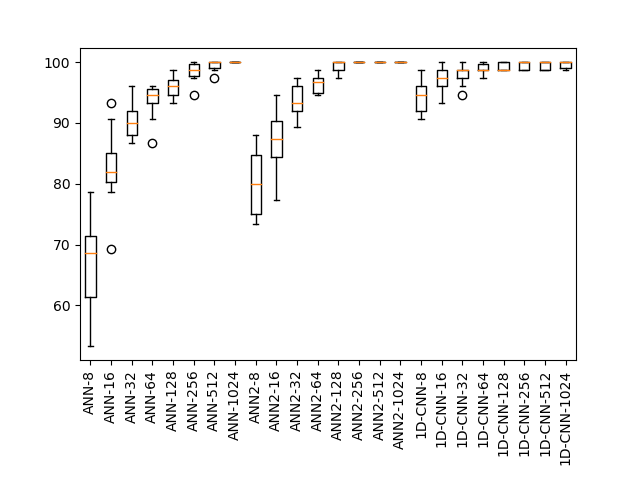
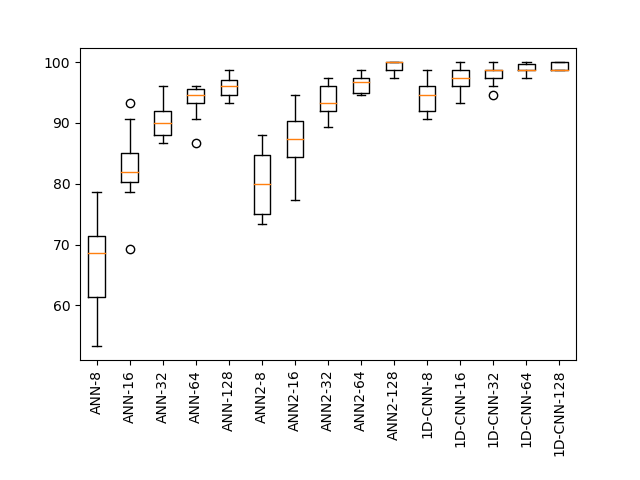
update

Changed region(s): [[0.125, 0.125, 0.9062, 0.9688], [0.375, 0.125, 0.9062, 0.4688]]

diff --git a/scripts/entrenar_modelo.py b/scripts/entrenar_modelo.py
@@ -122,9 +122,26 @@ def run_experiment(trainX, trainy, testX, testy, trainX_2, testX_2, repeats=10):
     # repeat experiment
 
     all_scores = list()
-    tamaño_red=[8,16,32,64,128,256,512,1024]
+    tamaño_red=[8,16,32,64,128]
 
-    all_scores=[[69.33333277702332, 69.33333277702332, 68.00000071525574, 78.66666913032532, 60.00000238418579, 72.00000286102295, 72.00000286102295, 61.33333444595337, 53.33333611488342, 61.33333444595337], [82.66666531562805, 69.33333277702332, 93.33333373069763, 81.33333325386047, 83.99999737739563, 85.33333539962769, 81.33333325386047, 80.0000011920929, 78.66666913032532, 90.66666960716248], [92.00000166893005, 92.00000166893005, 87.99999952316284, 94.66666579246521, 95.99999785423279, 89.33333158493042, 87.99999952316284, 86.66666746139526, 90.66666960716248, 86.66666746139526], [93.33333373069763, 90.66666960716248, 94.66666579246521, 93.33333373069763, 94.66666579246521, 86.66666746139526, 95.99999785423279, 94.66666579246521, 95.99999785423279, 95.99999785423279], [95.99999785423279, 94.66666579246521, 98.66666793823242, 95.99999785423279, 93.33333373069763, 94.66666579246521, 95.99999785423279, 97.33333587646484, 94.66666579246521, 97.33333587646484], [94.66666579246521, 98.66666793823242, 98.66666793823242, 100.0, 100.0, 98.66666793823242, 100.0, 97.33333587646484, 97.33333587646484, 98.66666793823242], [100.0, 98.66666793823242, 100.0, 100.0, 97.33333587646484, 100.0, 100.0, 98.66666793823242, 100.0, 100.0], [100.0, 100.0, 100.0, 100.0, 100.0, 100.0, 100.0, 100.0, 100.0, 100.0], [74.6666669845581, 87.99999952316284, 73.33333492279053, 74.6666669845581, 87.99999952316284, 82.66666531562805, 75.99999904632568, 85.33333539962769, 81.33333325386047, 78.66666913032532], [87.99999952316284, 85.33333539962769, 86.66666746139526, 94.66666579246521, 83.99999737739563, 83.99999737739563, 77.33333110809326, 90.66666960716248, 89.33333158493042, 93.33333373069763], [95.99999785423279, 97.33333587646484, 89.33333158493042, 95.99999785423279, 92.00000166893005, 92.00000166893005, 94.66666579246521, 97.33333587646484, 92.00000166893005, 90.66666960716248], [94.66666579246521, 97.33333587646484, 97.33333587646484, 97.33333587646484, 95.99999785423279, 98.66666793823242, 94.66666579246521, 98.66666793823242, 95.99999785423279, 94.66666579246521], [100.0, 100.0, 100.0, 97.33333587646484, 98.66666793823242, 100.0, 98.66666793823242, 100.0, 100.0, 97.33333587646484], [100.0, 100.0, 100.0, 100.0, 100.0, 100.0, 100.0, 100.0, 100.0, 100.0], [100.0, 100.0, 100.0, 100.0, 100.0, 100.0, 100.0, 100.0, 100.0, 100.0], [100.0, 100.0, 100.0, 100.0, 100.0, 100.0, 100.0, 100.0, 100.0, 100.0], [92.00000166893005, 98.66666793823242, 93.33333373069763, 95.99999785423279, 95.99999785423279, 95.99999785423279, 97.33333587646484, 92.00000166893005, 92.00000166893005, 90.66666960716248], [97.33333587646484, 100.0, 95.99999785423279, 93.33333373069763, 98.66666793823242, 98.66666793823242, 97.33333587646484, 100.0, 95.99999785423279, 94.66666579246521], [100.0, 98.66666793823242, 98.66666793823242, 97.33333587646484, 98.66666793823242, 95.99999785423279, 98.66666793823242, 97.33333587646484, 94.66666579246521, 100.0], [98.66666793823242, 100.0, 98.66666793823242, 98.66666793823242, 98.66666793823242, 97.33333587646484, 98.66666793823242, 98.66666793823242, 100.0, 100.0], [100.0, 98.66666793823242, 100.0, 98.66666793823242, 98.66666793823242, 100.0, 98.66666793823242, 98.66666793823242, 100.0, 98.66666793823242], [100.0, 98.66666793823242, 100.0, 100.0, 100.0, 100.0, 98.66666793823242, 98.66666793823242, 100.0, 98.66666793823242], [98.66666793823242, 100.0, 100.0, 100.0, 100.0, 98.66666793823242, 100.0, 100.0, 98.66666793823242, 98.66666793823242], [98.66666793823242, 98.66666793823242, 100.0, 100.0, 100.0, 100.0, 100.0, 100.0, 98.66666793823242, 100.0]]
+    all_scores=[
+        [69.33333277702332, 69.33333277702332, 68.00000071525574, 78.66666913032532, 60.00000238418579, 72.00000286102295, 72.00000286102295, 61.33333444595337, 53.33333611488342, 61.33333444595337],
+        [82.66666531562805, 69.33333277702332, 93.33333373069763, 81.33333325386047, 83.99999737739563, 85.33333539962769, 81.33333325386047, 80.0000011920929, 78.66666913032532, 90.66666960716248],
+        [92.00000166893005, 92.00000166893005, 87.99999952316284, 94.66666579246521, 95.99999785423279, 89.33333158493042, 87.99999952316284, 86.66666746139526, 90.66666960716248, 86.66666746139526],
+        [93.33333373069763, 90.66666960716248, 94.66666579246521, 93.33333373069763, 94.66666579246521, 86.66666746139526, 95.99999785423279, 94.66666579246521, 95.99999785423279, 95.99999785423279],
+        [95.99999785423279, 94.66666579246521, 98.66666793823242, 95.99999785423279, 93.33333373069763, 94.66666579246521, 95.99999785423279, 97.33333587646484, 94.66666579246521, 97.33333587646484],
+
+        [74.6666669845581, 87.99999952316284, 73.33333492279053, 74.6666669845581, 87.99999952316284, 82.66666531562805, 75.99999904632568, 85.33333539962769, 81.33333325386047, 78.66666913032532],
+        [87.99999952316284, 85.33333539962769, 86.66666746139526, 94.66666579246521, 83.99999737739563, 83.99999737739563, 77.33333110809326, 90.66666960716248, 89.33333158493042, 93.33333373069763],
+        [95.99999785423279, 97.33333587646484, 89.33333158493042, 95.99999785423279, 92.00000166893005, 92.00000166893005, 94.66666579246521, 97.33333587646484, 92.00000166893005, 90.66666960716248],
+        [94.66666579246521, 97.33333587646484, 97.33333587646484, 97.33333587646484, 95.99999785423279, 98.66666793823242, 94.66666579246521, 98.66666793823242, 95.99999785423279, 94.66666579246521],
+        [100.0, 100.0, 100.0, 97.33333587646484, 98.66666793823242, 100.0, 98.66666793823242, 100.0, 100.0, 97.33333587646484],
+
+        [92.00000166893005, 98.66666793823242, 93.33333373069763, 95.99999785423279, 95.99999785423279, 95.99999785423279, 97.33333587646484, 92.00000166893005, 92.00000166893005, 90.66666960716248],
+        [97.33333587646484, 100.0, 95.99999785423279, 93.33333373069763, 98.66666793823242, 98.66666793823242, 97.33333587646484, 100.0, 95.99999785423279, 94.66666579246521],
+        [100.0, 98.66666793823242, 98.66666793823242, 97.33333587646484, 98.66666793823242, 95.99999785423279, 98.66666793823242, 97.33333587646484, 94.66666579246521, 100.0],
+        [98.66666793823242, 100.0, 98.66666793823242, 98.66666793823242, 98.66666793823242, 97.33333587646484, 98.66666793823242, 98.66666793823242, 100.0, 100.0],
+        [100.0, 98.66666793823242, 100.0, 98.66666793823242, 98.66666793823242, 100.0, 98.66666793823242, 98.66666793823242, 100.0, 98.66666793823242]]
     # for N in tamaño_red:
     #     scores = list()
     #     for r in range(repeats):
@@ -134,7 +151,7 @@ def run_experiment(trainX, trainy, testX, testy, trainX_2, testX_2, repeats=10):
     #         scores.append(score)
     #     all_scores.append(scores)
 
-    summarize_results(all_scores[0:8],["ANN-8","ANN-16","ANN-32","ANN-64","ANN-128","ANN-256","ANN-512","ANN-1024"],"desviacion_estandar_modelo_1.png")
+    # summarize_results(all_scores[0:8],["ANN-8","ANN-16","ANN-32","ANN-64","ANN-128","ANN-256","ANN-512","ANN-1024"],"desviacion_estandar_modelo_1.png")
 
     # for N in tamaño_red:
     #     scores = list()
@@ -145,7 +162,7 @@ def run_experiment(trainX, trainy, testX, testy, trainX_2, testX_2, repeats=10):
     #         scores.append(score)
     #     all_scores.append(scores)
 
-    summarize_results(all_scores[8:16],["ANN2-8","ANN2-16","ANN2-32","ANN2-64","ANN2-128","ANN2-256","ANN2-512","ANN2-1024"],"desviacion_estandar_modelo_2.png")
+    # summarize_results(all_scores[8:16],["ANN2-8","ANN2-16","ANN2-32","ANN2-64","ANN2-128","ANN2-256","ANN2-512","ANN2-1024"],"desviacion_estandar_modelo_2.png")
 
     # for N in tamaño_red:
     #     scores = list()
@@ -156,10 +173,10 @@ def run_experiment(trainX, trainy, testX, testy, trainX_2, testX_2, repeats=10):
     #         scores.append(score)
     #     all_scores.append(scores)
 
-    summarize_results(all_scores[16:24],["1D-CNN-8","1D-CNN-16","1D-CNN-32","1D-CNN-64","1D-CNN-128","1D-CNN-256","1D-CNN-512","1D-CNN-1024"],"desviacion_estandar_modelo_3.png")
+    # summarize_results(all_scores[16:24],["1D-CNN-8","1D-CNN-16","1D-CNN-32","1D-CNN-64","1D-CNN-128","1D-CNN-256","1D-CNN-512","1D-CNN-1024"],"desviacion_estandar_modelo_3.png")
 
     # summarize results
-    summarize_results(all_scores,["ANN-8","ANN-16","ANN-32","ANN-64","ANN-128","ANN-256","ANN-512","ANN-1024","ANN2-8","ANN2-16","ANN2-32","ANN2-64","ANN2-128","ANN2-256","ANN2-512","ANN2-1024","1D-CNN-8","1D-CNN-16","1D-CNN-32","1D-CNN-64","1D-CNN-128","1D-CNN-256","1D-CNN-512","1D-CNN-1024"],"desviacion_estandar_total.png")
+    summarize_results(all_scores,["ANN-8","ANN-16","ANN-32","ANN-64","ANN-128","ANN2-8","ANN2-16","ANN2-32","ANN2-64","ANN2-128","1D-CNN-8","1D-CNN-16","1D-CNN-32","1D-CNN-64","1D-CNN-128"],"desviacion_estandar_total.png")
 
 # Cargar datos desde un archivo CSV
 data = pd.read_csv('~/offbnode/database.csv')
